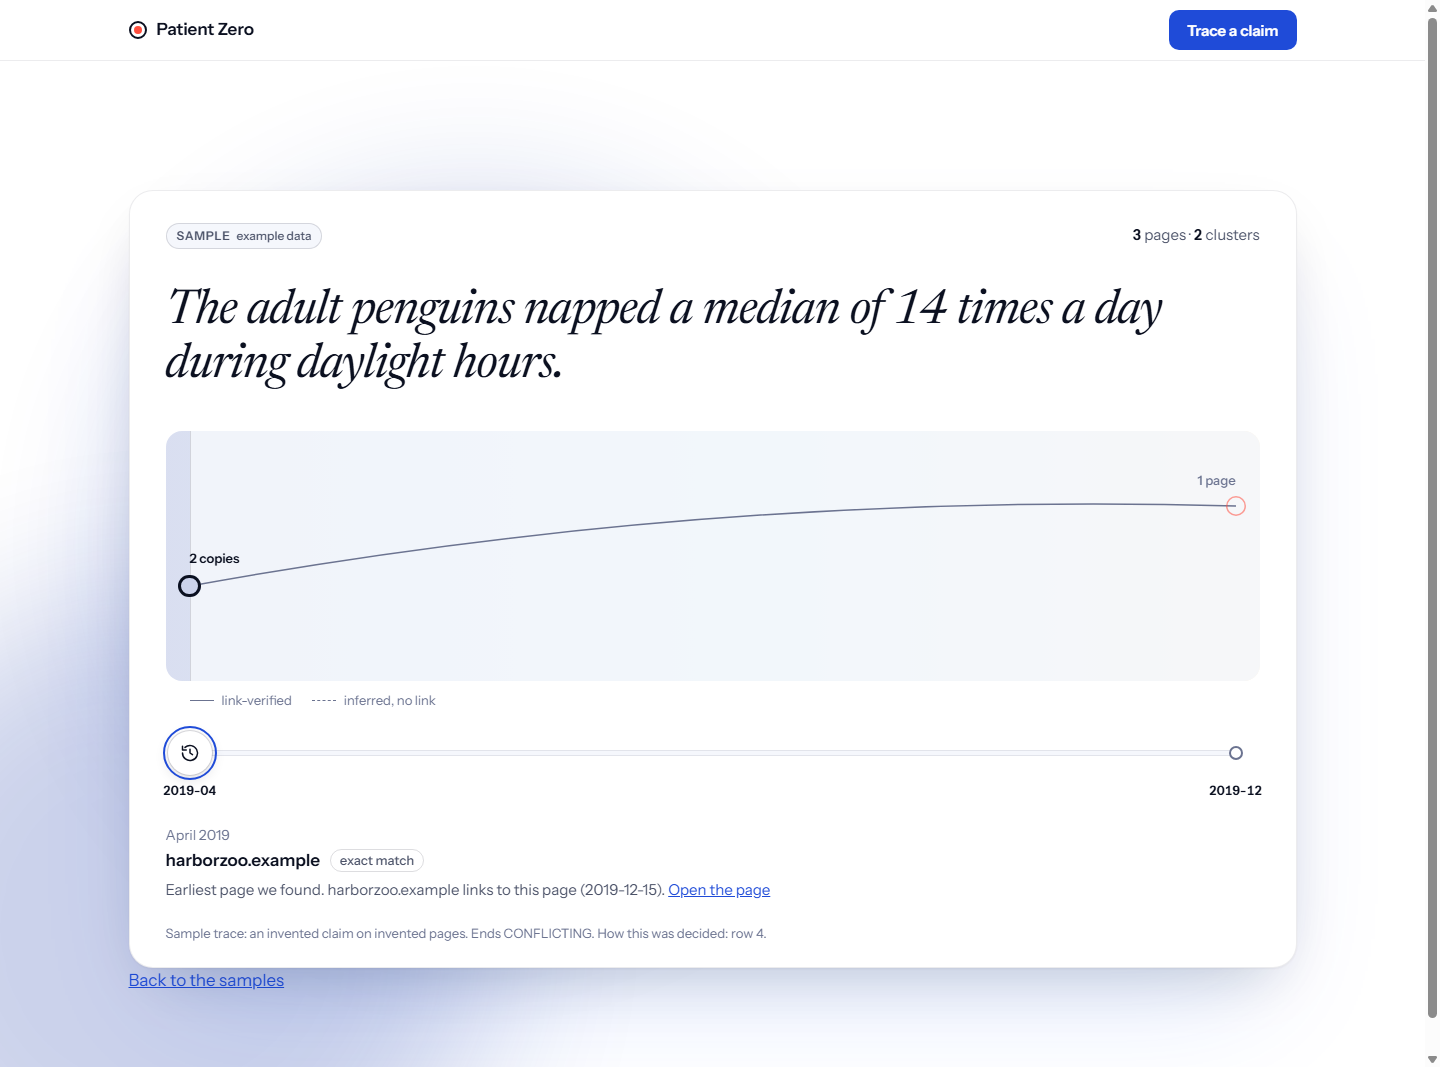
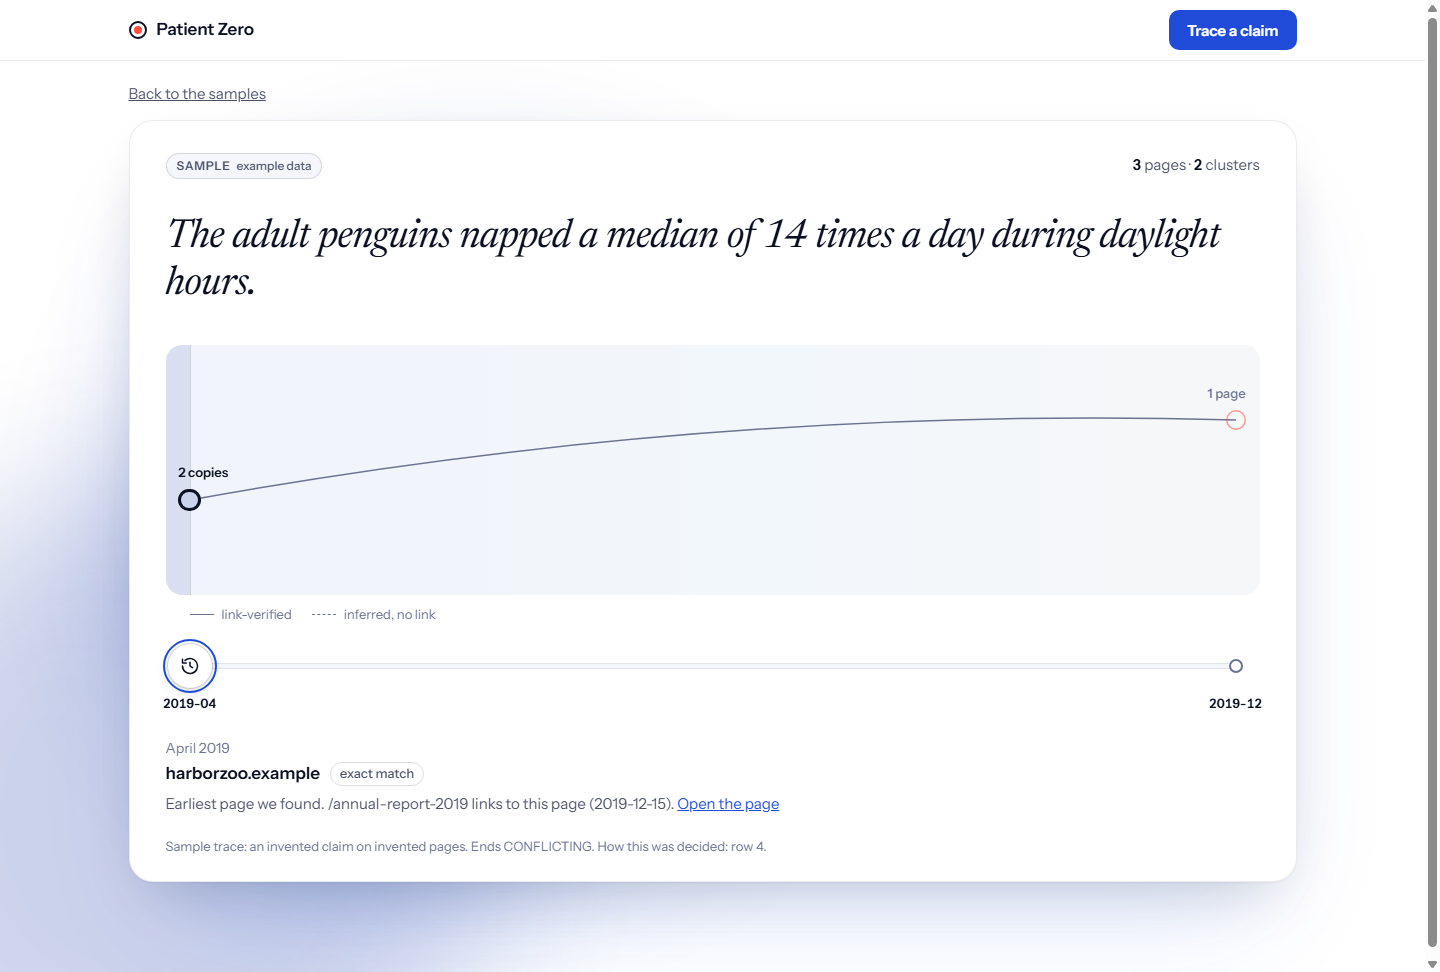
Fix the dark ramp, stage spacing, start hero and sample rows from review

diff --git a/apps/web/src/App.tsx b/apps/web/src/App.tsx
@@ -18,13 +18,21 @@ function useRoute(): Route {
 }
 
 const stateLabel = (trace: Trace) => trace.decision.state.replace(/_/g, " ");
-const sentenceCase = (text: string) => text.charAt(0) + text.slice(1).toLowerCase();
+const sentenceCase = (text: string) => text.charAt(0).toUpperCase() + text.slice(1).toLowerCase();
+
+// The decision's own reasons, in code's words, are what tells two samples with the same ending apart.
+const reasonLine = (trace: Trace) => sentenceCase(trace.decision.reasons.join("; ") || stateLabel(trace));
+const sharedClaim = traces.length > 0 && traces.every((t) => t.claim.text === traces[0]!.claim.text) ? traces[0]!.claim.text : null;
 
 function Start() {
   return (
     <main className="wrap section stack">
-      <h1 className="k">Where did this number start?</h1>
-      <p className="lead">Paste a statistic. Patient Zero walks it back through time to the earliest page we can find, and shows every step.</p>
+      {sharedClaim ? (
+        <h1 className="hero-quote">{`“${sharedClaim}”`}</h1>
+      ) : (
+        <h1 className="k">Where did this number start?</h1>
+      )}
+      <p className="lead">Patient Zero walks a claim back through time to the earliest page it can find, and shows every step.</p>
       <label className="field">
         <input className="input" type="text" placeholder="Paste a statistic or a quote" aria-describedby="live-note" disabled />
         <span id="live-note" className="meta field-note">Live traces arrive with the engine; samples below.</span>
@@ -40,7 +48,7 @@ function Start() {
               <a className="sample" href={`#/t/${encodeURIComponent(trace.id)}`}>
                 <span className="sample-state">{sentenceCase(stateLabel(trace))}</span>
                 <span className="meta">
-                  {trace.roots.pages} {trace.roots.pages === 1 ? "page" : "pages"}, {trace.id}
+                  {reasonLine(trace)}. {trace.roots.pages} {trace.roots.pages === 1 ? "page" : "pages"}.
                 </span>
                 {!trace.synthetic && <ModeBadge trace={trace} />}
               </a>
@@ -58,9 +66,9 @@ function Start() {
 function TraceRoute({ id }: { id: string }) {
   const trace = traces.find((t) => t.id === id);
   return (
-    <main className="wrap section stack">
+    <main className="wrap trace-page">
+      <a className="back" href="#/">Back to the samples</a>
       {trace ? <TraceView trace={trace} /> : <p className="error" role="alert">No trace called {id}.</p>}
-      <a href="#/">Back to the samples</a>
     </main>
   );
 }

diff --git a/apps/web/src/model/scrubber.ts b/apps/web/src/model/scrubber.ts
@@ -119,7 +119,8 @@ export function wordsLeaving(trace: Trace, stops: Stop[], i: number): Word[] {
   return hop ? align(stop.text, hop.wordDiff, "parent") : stop.text.split(" ").map((text) => ({ text, changed: false }));
 }
 
-export type StopNote = { earliest: boolean; via: { kind: Edge["kind"]; domain: string; date: string | null } | null };
+// label names the linking page: its domain, or its path when it is on the same site as the open page.
+export type StopNote = { earliest: boolean; via: { kind: Edge["kind"]; domain: string; label: string; date: string | null } | null };
 
 // What the open stop says about itself: whether it is one of the earliest pages, and which newer page reached it, by link or by inference.
 export function stopNote(trace: Trace, stops: Stop[], i: number): StopNote {
@@ -127,20 +128,21 @@ export function stopNote(trace: Trace, stops: Stop[], i: number): StopNote {
   const nodeId = trace.spans.find((s) => s.id === stop.spanId)?.nodeId;
   const edge = trace.edges.find((e) => e.id === stop.edgeId);
   const child = edge && trace.nodes.find((n) => n.id === edge.childId);
+  const pageDomain = trace.nodes.find((n) => n.id === nodeId)?.domain;
   return {
     earliest: nodeId !== undefined && trace.earliest.nodeIds.includes(nodeId),
-    via: edge && child ? { kind: edge.kind, domain: child.domain, date: child.date.value } : null,
+    via: edge && child ? { kind: edge.kind, domain: child.domain, label: child.domain === pageDomain ? new URL(child.url).pathname : child.domain, date: child.date.value } : null,
   };
 }
 
-// The time ramp from DESIGN.md (light values), past to today: deep, cold, cool, warm, hot.
-const RAMP: [number, number, number][] = [[20, 52, 164], [46, 91, 255], [25, 184, 204], [255, 178, 36], [255, 79, 63]];
+// The time ramp, past to today, as the theme's own CSS variables, so dark mode samples the dark values.
+const RAMP = ["--deep", "--cold", "--cool", "--warm", "--hot"];
 
 export function heat(x: number): string {
   const t = Math.min(1, Math.max(0, x)) * (RAMP.length - 1);
   const i = Math.min(RAMP.length - 2, Math.floor(t));
-  const q = t - i;
-  const [a, b] = [RAMP[i]!, RAMP[i + 1]!];
-  const mix = (k: 0 | 1 | 2) => Math.round(a[k] + (b[k] - a[k]) * q);
-  return `rgb(${mix(0)}, ${mix(1)}, ${mix(2)})`;
+  const q = Math.round((t - i) * 100);
+  if (q === 0) return `var(${RAMP[i]})`;
+  if (q === 100) return `var(${RAMP[i + 1]})`;
+  return `color-mix(in srgb, var(${RAMP[i]}) ${100 - q}%, var(${RAMP[i + 1]}))`;
 }

diff --git a/apps/web/src/model/scrubber.test.ts b/apps/web/src/model/scrubber.test.ts
@@ -112,7 +112,7 @@ describe("stopNote", () => {
     const stops = scrubberStops(trace);
     const last = stopNote(trace, stops, stops.length - 1);
     const zooFaq = stopNote(trace, stops, stops.length - 2);
-    expect(last.via).toEqual({ kind: "explicit", domain: "harborzoo.example", date: "2019-12-15" });
+    expect(last.via).toMatchObject({ kind: "explicit", domain: "harborzoo.example", date: "2019-12-15" });
     expect(zooFaq.via).toBeNull();
   });
 
@@ -125,9 +125,28 @@ describe("stopNote", () => {
 });
 
 describe("heat", () => {
-  it("samples the time ramp: deep at the past end, hot at today", () => {
-    expect(heat(0)).toBe("rgb(20, 52, 164)");
-    expect(heat(1)).toBe("rgb(255, 79, 63)");
-    expect(heat(0.5)).toBe("rgb(25, 184, 204)");
+  it("samples the theme's own ramp variables, so dark mode gets the dark ramp", () => {
+    expect(heat(0)).toBe("var(--deep)");
+    expect(heat(1)).toBe("var(--hot)");
+    expect(heat(0.5)).toBe("var(--cool)");
+    expect(heat(0.125)).toBe("color-mix(in srgb, var(--deep) 50%, var(--cold))");
+  });
+});
+
+describe("stopNote labels", () => {
+  it("names the linking page by its path when it is on the same site as the open page", () => {
+    const trace = byId("sample-conflicting");
+    const stops = scrubberStops(trace);
+    const note = stopNote(trace, stops, stops.length - 1);
+    expect(note.via?.domain).toBe("harborzoo.example");
+    expect(note.via?.label.startsWith("/")).toBe(true);
+  });
+
+  it("names the linking page by its domain when it is on another site", () => {
+    const trace = byId("sample-rich");
+    const stops = scrubberStops(trace);
+    const i = stops.findIndex((s) => s.edgeId !== null);
+    const note = stopNote(trace, stops, i);
+    expect(note.via?.label).toBe(note.via?.domain);
   });
 });

diff --git a/apps/web/src/components/TraceView.tsx b/apps/web/src/components/TraceView.tsx
@@ -71,8 +71,8 @@ export function TraceView({ trace }: { trace: Trace }) {
                 </p>
                 <p className="hop-note">
                   {note.earliest ? "Earliest page we found. " : ""}
-                  {note.via?.kind === "explicit" && `${note.via.domain} links to this page (${note.via.date ?? "undated"}). `}
-                  {note.via?.kind === "inferred" && `Inferred as the source for ${note.via.domain} (${note.via.date ?? "undated"}) by date; no link. `}
+                  {note.via?.kind === "explicit" && `${note.via.label} links to this page (${note.via.date ?? "undated"}). `}
+                  {note.via?.kind === "inferred" && `Inferred as the source for ${note.via.label} (${note.via.date ?? "undated"}) by date; no link. `}
                   {hop.unsure && "One readout on this hop is unsure. "}
                   <a href={hop.url} target="_blank" rel="noreferrer">Open the page</a>
                 </p>

diff --git a/apps/web/src/styles/tokens.css b/apps/web/src/styles/tokens.css
@@ -335,3 +335,25 @@ a {
     font-size: 14px;
   }
 }
+
+/* The start page hero: the claim itself, in quote type at the DESIGN.md hero scale. */
+.hero-quote {
+  margin: 0;
+  font: italic 400 clamp(40px, 7.2vw, 108px) / 1.02 var(--font-quote);
+  font-optical-sizing: auto;
+  letter-spacing: -0.02em;
+  text-wrap: balance;
+}
+
+/* The trace page: the stage sits right under the nav, with the way back above it. */
+.trace-page {
+  padding-top: 20px;
+  padding-bottom: 10vh;
+}
+
+.back {
+  display: inline-block;
+  margin-bottom: 14px;
+  color: var(--ink-2);
+  font-size: 15px;
+}

diff --git a/apps/web/src/styles/trace.css b/apps/web/src/styles/trace.css
@@ -68,9 +68,12 @@
   font-variant-numeric: tabular-nums;
 }
 
+/* The product sentence scale from DESIGN.md. */
 .sentence {
   margin: 36px 0 0;
   min-height: 2.3em;
+  font-size: clamp(26px, 3vw, 40px);
+  line-height: 1.18;
 }
 
 .sentence .w {
@@ -183,8 +186,12 @@
   transform: translateX(-50%);
 }
 
+.disc-label.start {
+  left: calc(var(--disc) / -2);
+}
+
 .disc-label.end {
-  right: 0;
+  right: calc(var(--disc) / -2);
 }
 
 .disc.later .disc-label {
